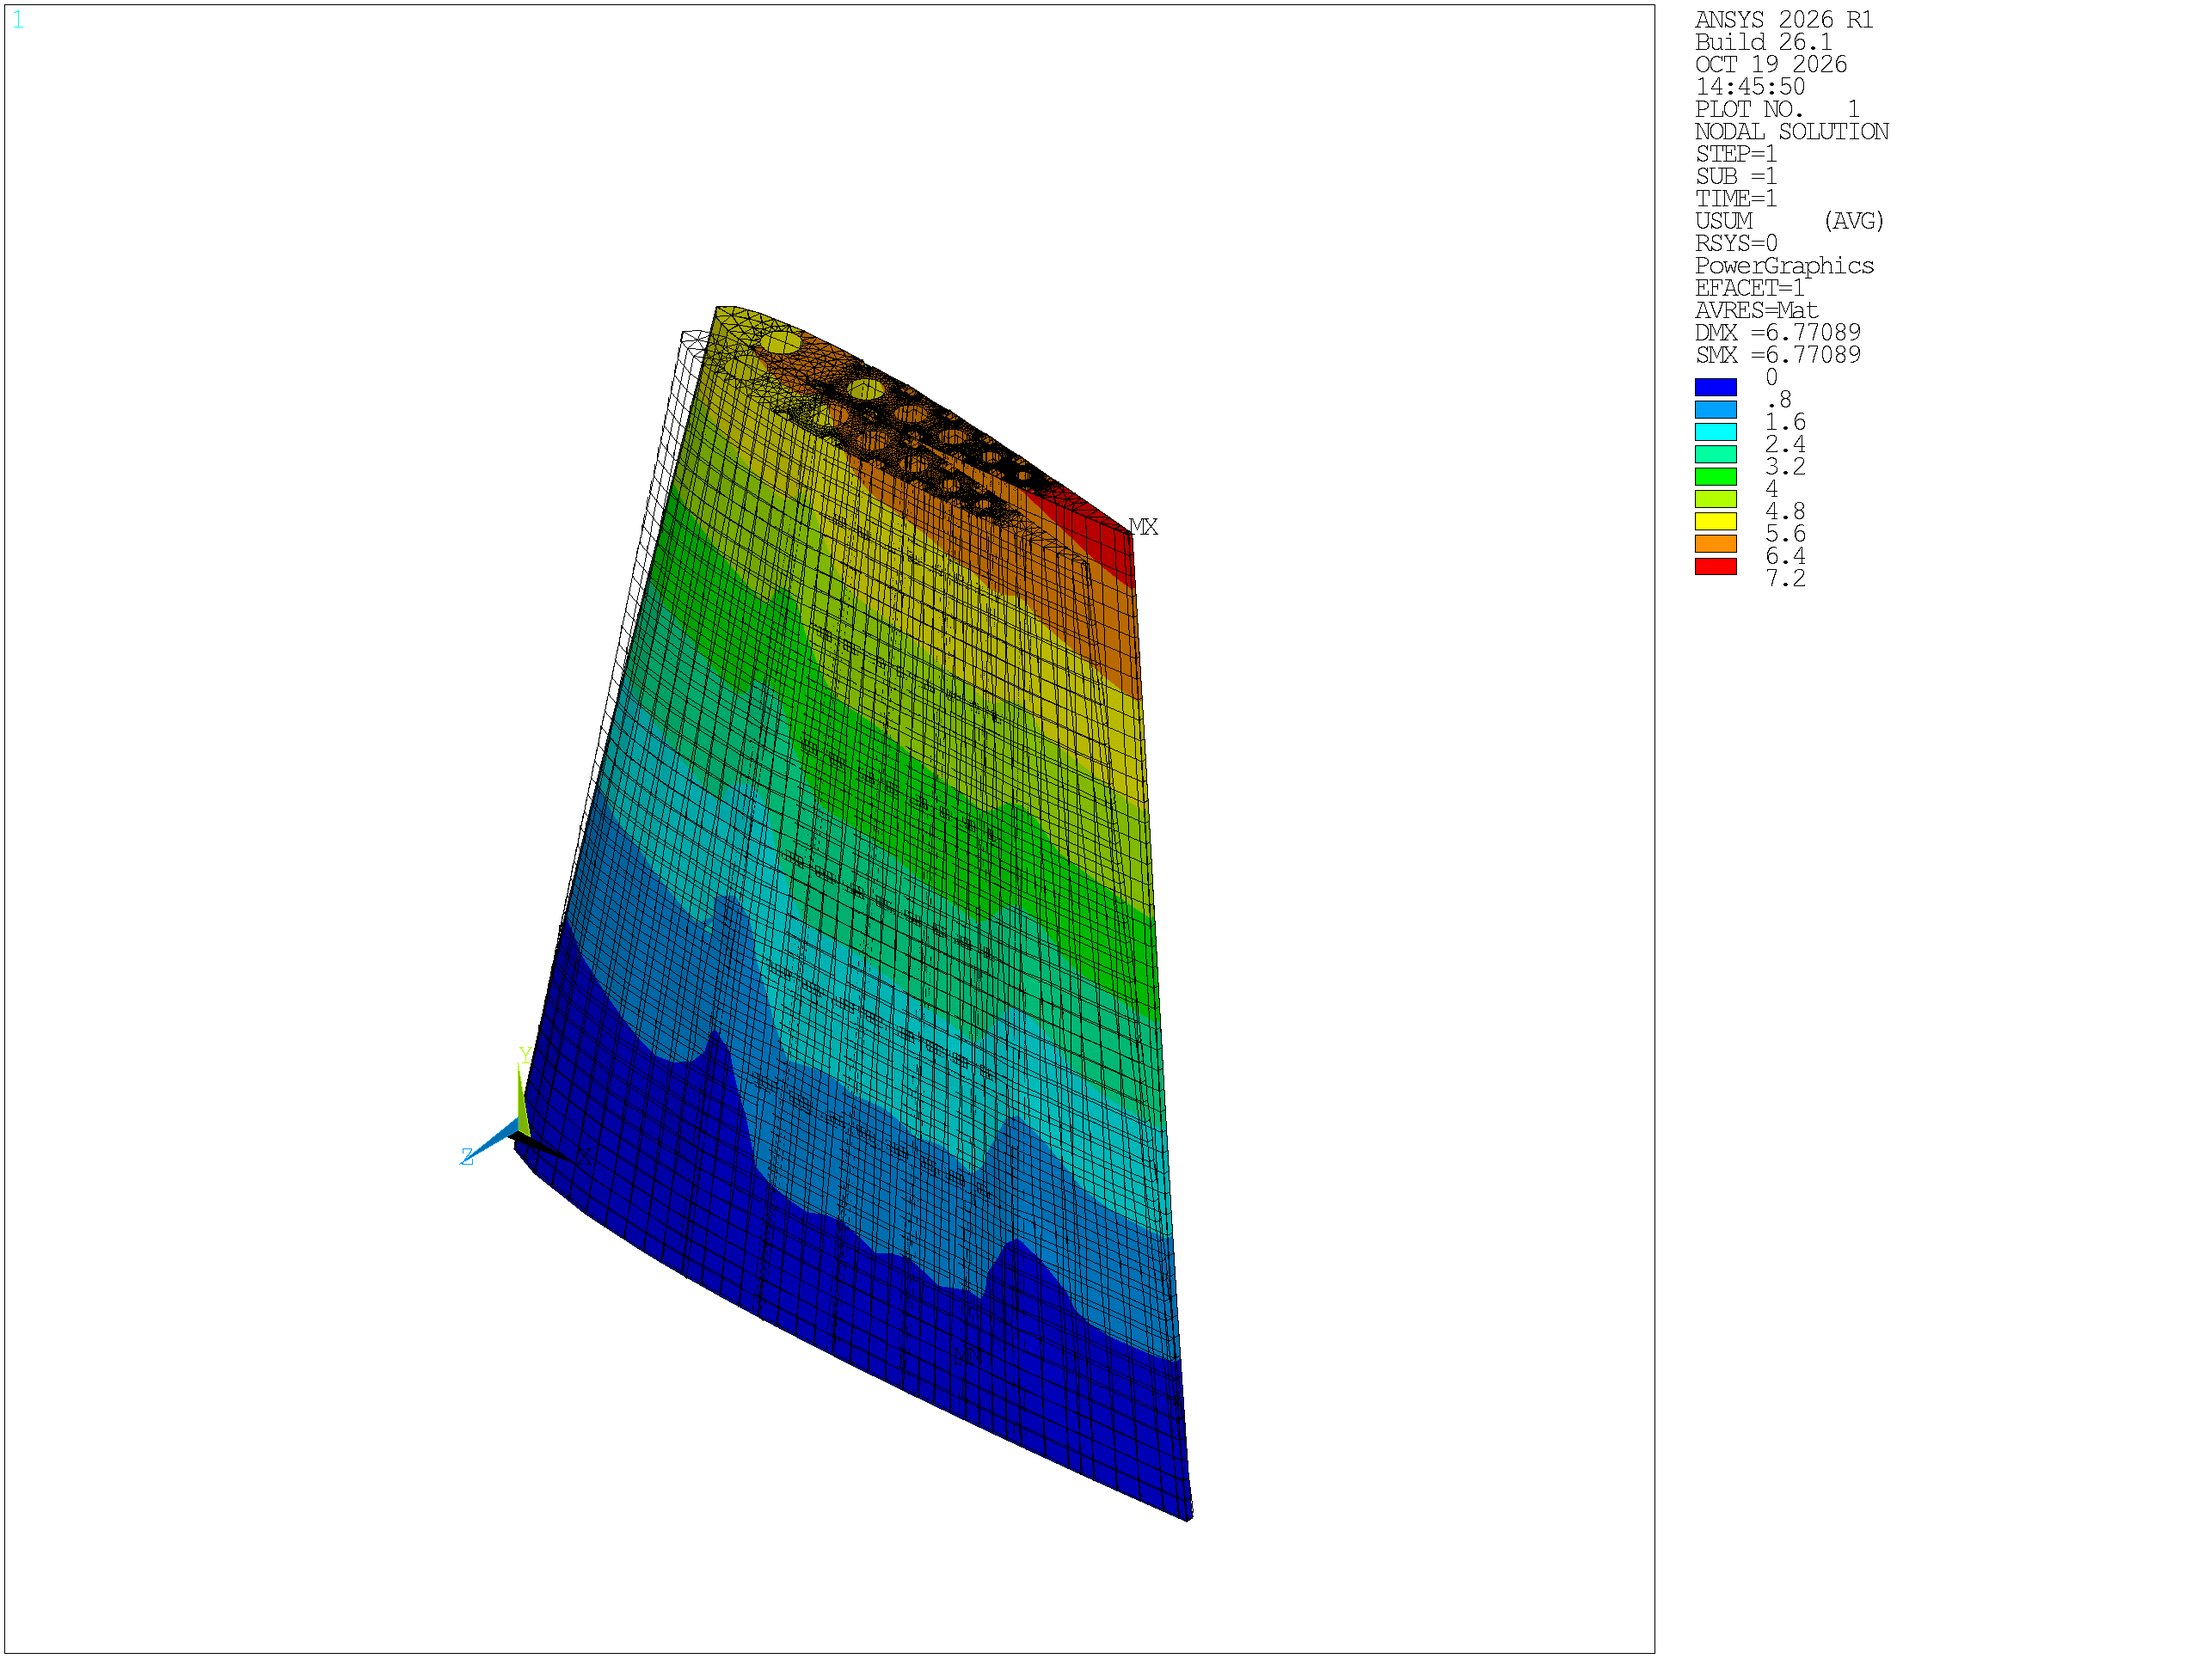
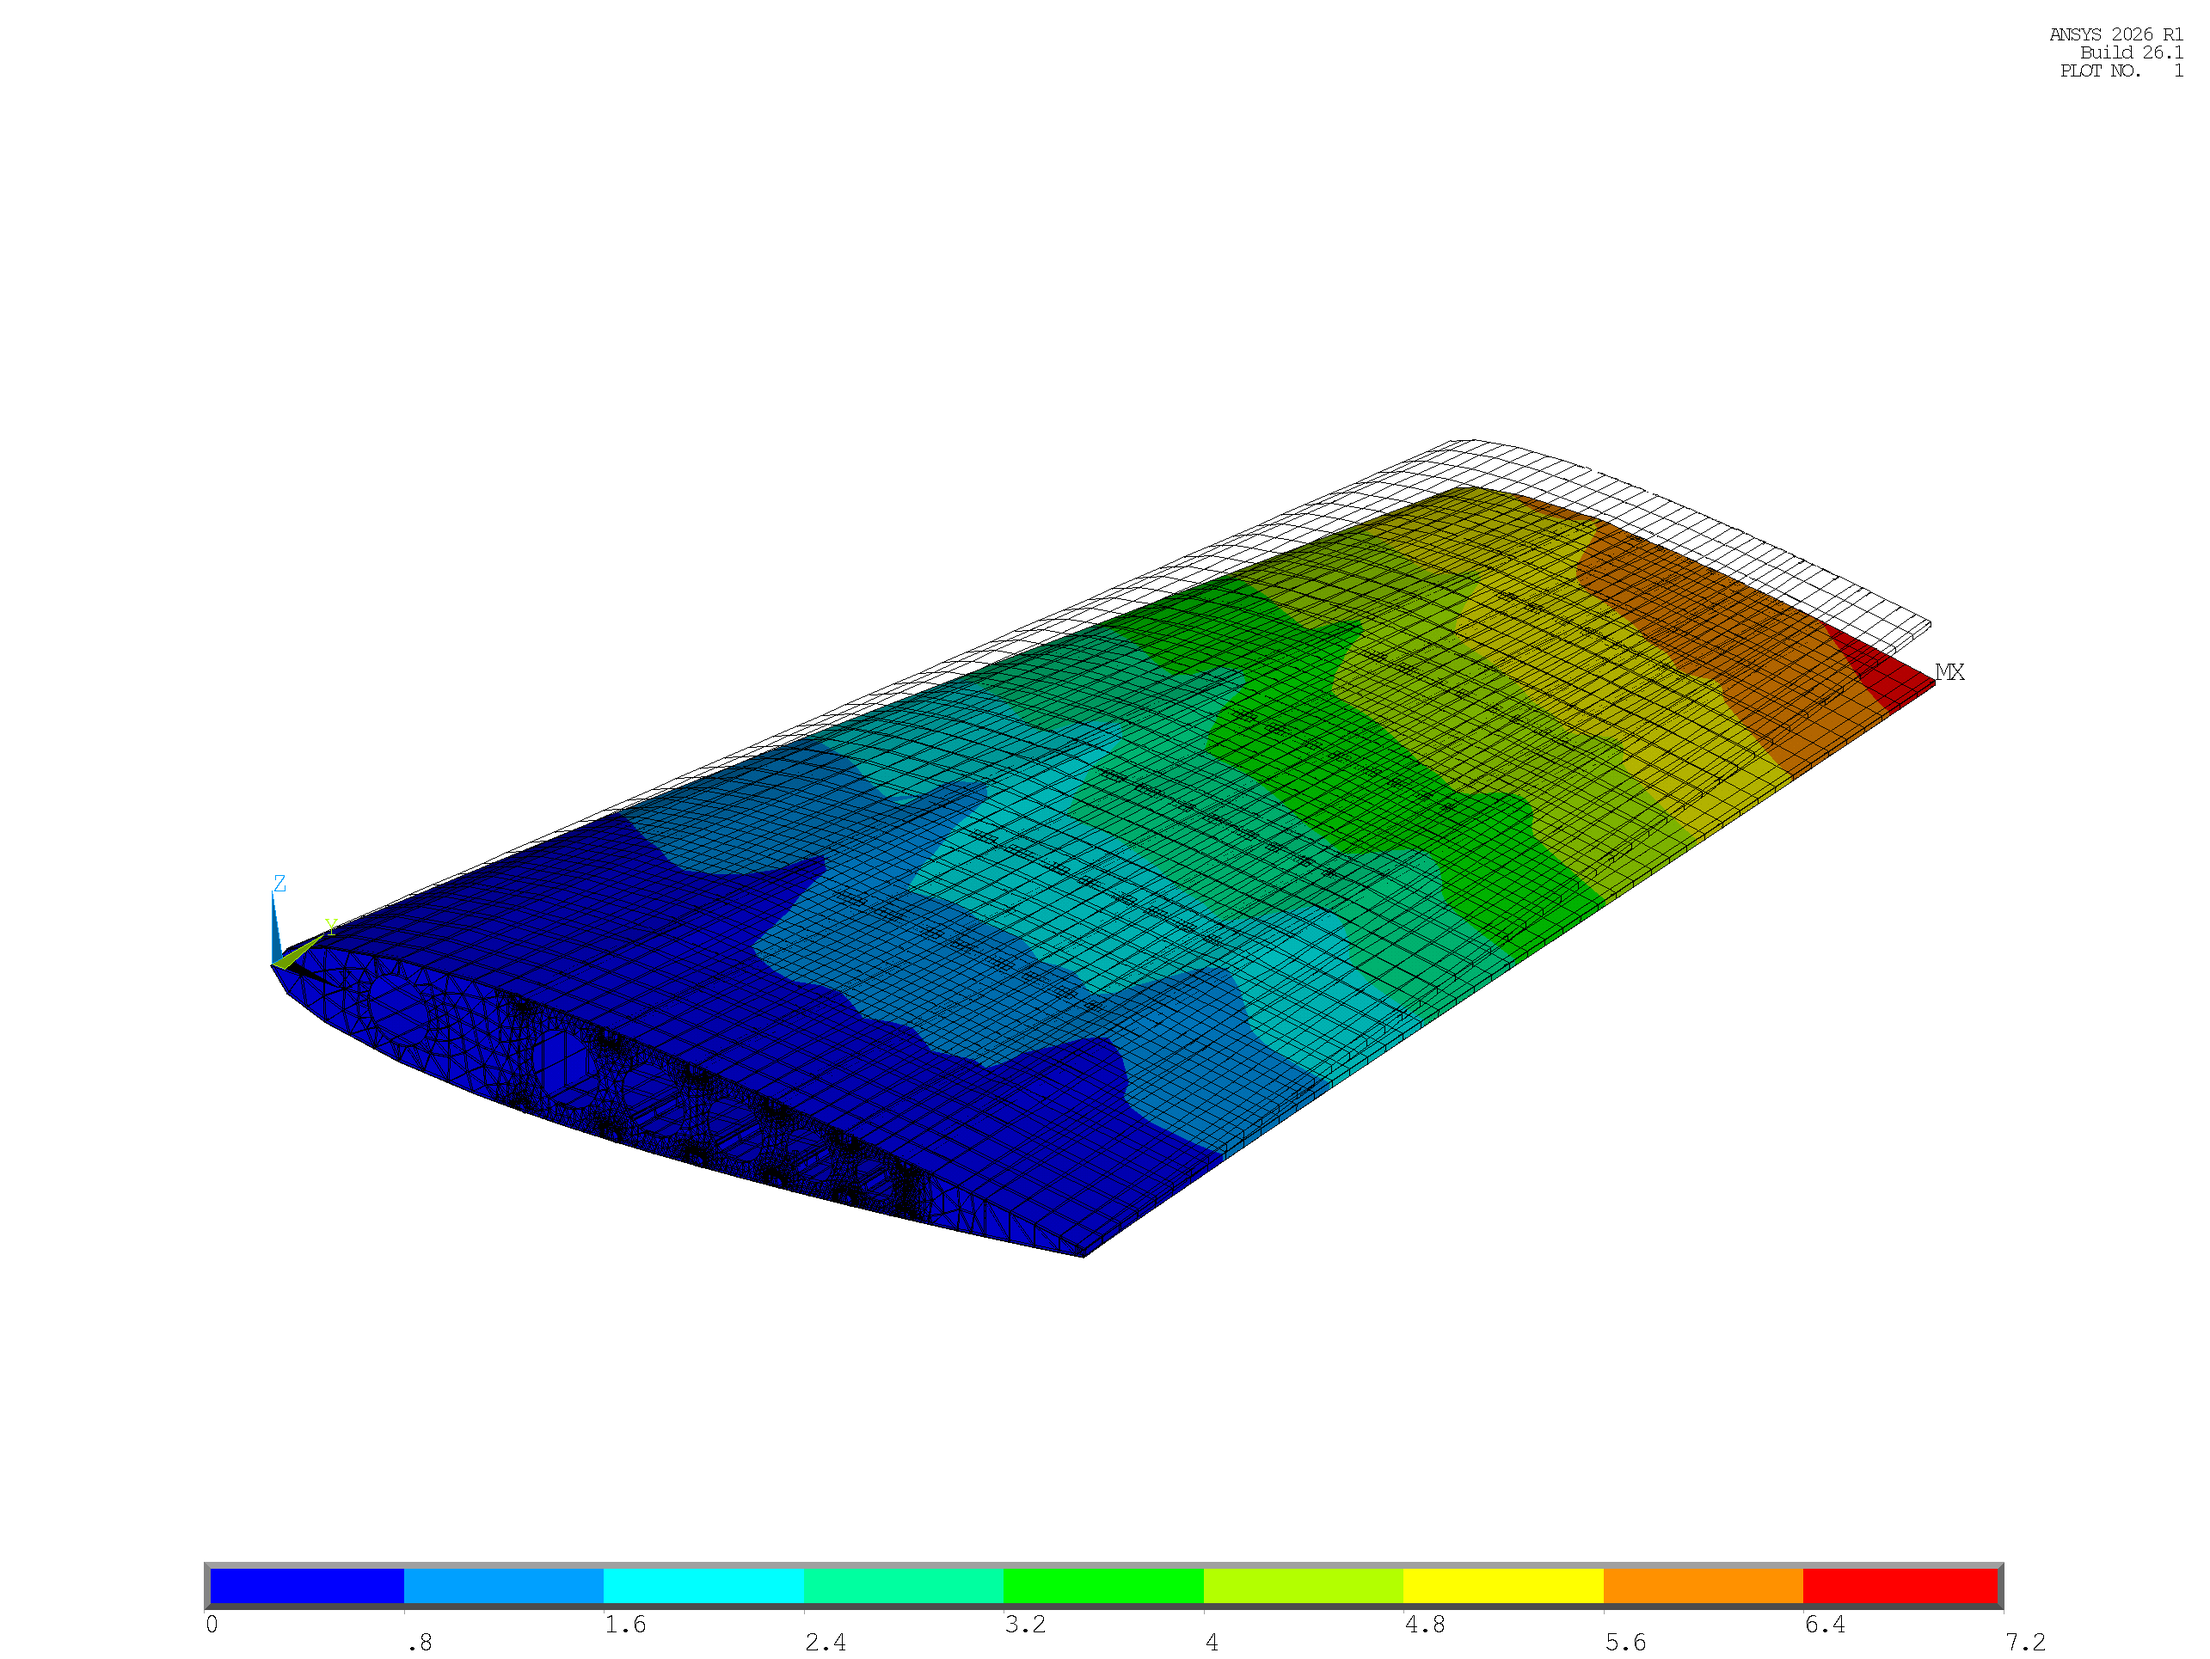
feat(m3): generate report-ready visuals with bottom horizontal contour bar and suppressed right legend

Changed region(s): [[0.0934, 0.1554, 0.9027, 0.9948], [0.7782, 0.0622, 0.8093, 0.0933]]

diff --git a/optimization/README.md b/optimization/README.md
@@ -175,58 +175,70 @@ Across all three optimized configurations:
 
 ---
 
-## 6. Publication Visual Gallery
+### 6. Publication Visual Gallery & Report-Ready Visuals
 
-All 10 target publication-quality images were rendered in ANSYS MAPDL Batch Mode using `/GRAPHICS, POWER`, `/ESHAPE, 1`, and unified contour ranges ($0 - 7.2\text{ mm}$ for DMX):
+All 10 target publication-quality images were rendered in ANSYS MAPDL Batch Mode using `/GRAPHICS, POWER`, `/ESHAPE, 1`, and unified contour ranges ($0 - 7.2\text{ mm}$ for DMX).
 
-### 6.1 Configuration 1 (14 Ribs, 3 Spars, 8 Stringers)
+### 6.1 Report-Ready Presentation Standards
+To match the clean presentation standard established in `modal_analysis/` and `load_sfbm/`, the visuals feature:
+- **Bottom Horizontal Contour Bar (`/UDOC, 1, CNTR, BOTTOM`):** Clean, centered horizontal color scale at the bottom of the image for optimal embedding in reports and presentation slides.
+- **Suppressed Right-Hand Legend Block (`/PLOPTS, LEG1, 0`, `LEG2, 0`, `INFO, 3`, `TITLE, 0`, `LOGO, 0`):** Removes the default ANSYS PowerGraphics banner, date, and sidebar text to maintain a modern, distraction-free visual presentation.
+- **Canonical Aerospace Perspective (`/VIEW, 1, 0.55, -0.70, 0.45` with `/VUP, 1, Z`):** Elevates the root carry-through box, stringer mouseholes, and compression upper skin into foreground perspective.
 
-````carousel
-![Config 1 Optimized Deflection](visual_opt/cfg1_opt_regime1a_dmx.png)
-<!-- slide -->
-![Config 1 Optimized Stress](visual_opt/cfg1_opt_regime1a_seqv.png)
-<!-- slide -->
-![Config 1 Buckling Mode 1](visual_opt/cfg1_buckle_mode1.png)
-````
-
-- [Config 1 Deflection (DMX, 0 to 7.2 mm)](visual_opt/cfg1_opt_regime1a_dmx.png): Shows smooth cantilever bending with maximum tip deflection of $6.77\text{ mm}$.
-- [Config 1 Stress (SEQV, 0 to 30 MPa)](visual_opt/cfg1_opt_regime1a_seqv.png): Stress concentration safely contained in root interior rib flanges ($\sigma_{\max} = 29.94\text{ MPa}$).
-- [Config 1 Linear Buckling Mode 1](visual_opt/cfg1_buckle_mode1.png): First buckling eigenvalue $|\lambda_1| = 2.4891$ ($MS = +0.66$).
+> **Directory Layout:**
+> - 📁 **Report-Ready Visuals (Bottom Bar, No Right Legend):** [`optimization/visual_opt/for_report/`](visual_opt/for_report/) and root [`optimization/visual_opt/`](visual_opt/)
+> - 📁 **Full PowerGraphics Legend Archive (With Sidebar):** [`optimization/visual_opt/with_powergraph/`](visual_opt/with_powergraph/)
 
 ---
 
-### 6.2 Configuration 2 (9 Ribs, 2 Spars, 8 Stringers)
+### 6.2 Configuration 1 (14 Ribs, 3 Spars, 8 Stringers)
 
 ````carousel
-![Config 2 Optimized Deflection](visual_opt/cfg2_opt_regime1a_dmx.png)
+![Config 1 Optimized Deflection (Report)](visual_opt/for_report/cfg1_opt_regime1a_dmx.png)
 <!-- slide -->
-![Config 2 Optimized Stress](visual_opt/cfg2_opt_regime1a_seqv.png)
+![Config 1 Optimized Stress (Report)](visual_opt/for_report/cfg1_opt_regime1a_seqv.png)
 <!-- slide -->
-![Config 2 Buckling Mode 1](visual_opt/cfg2_buckle_mode1.png)
+![Config 1 Buckling Mode 1 (Report)](visual_opt/for_report/cfg1_buckle_mode1.png)
 ````
 
-- [Config 2 Deflection (DMX, 0 to 7.2 mm)](visual_opt/cfg2_opt_regime1a_dmx.png): Controlled tip deflection of $6.77\text{ mm}$ matching Config 1.
-- [Config 2 Stress (SEQV, 0 to 45 MPa)](visual_opt/cfg2_opt_regime1a_seqv.png): Peak stress of $44.64\text{ MPa}$ at root interior rib flange.
-- [Config 2 Linear Buckling Mode 1](visual_opt/cfg2_buckle_mode1.png): First buckling eigenvalue $|\lambda_1| = 2.2074$ ($MS = +0.47$).
+- [Config 1 Deflection (Report, DMX 0 to 7.2 mm)](visual_opt/for_report/cfg1_opt_regime1a_dmx.png) | [With PowerGraphics](visual_opt/with_powergraph/cfg1_opt_regime1a_dmx.png): Cantilever bending with maximum tip deflection of $6.77\text{ mm}$.
+- [Config 1 Stress (Report, SEQV 0 to 30 MPa)](visual_opt/for_report/cfg1_opt_regime1a_seqv.png) | [With PowerGraphics](visual_opt/with_powergraph/cfg1_opt_regime1a_seqv.png): Peak stress contained in root interior rib flanges ($\sigma_{\max} = 29.94\text{ MPa}$).
+- [Config 1 Linear Buckling Mode 1 (Report)](visual_opt/for_report/cfg1_buckle_mode1.png) | [With PowerGraphics](visual_opt/with_powergraph/cfg1_buckle_mode1.png): First buckling eigenvalue $|\lambda_1| = 2.4891$ ($MS = +0.66$).
 
 ---
 
-### 6.3 Configuration 3 (7 Ribs, 2 Spars, 6 Stringers) — Global Optimum
+### 6.3 Configuration 2 (9 Ribs, 2 Spars, 8 Stringers)
 
 ````carousel
-![Config 3 Baseline Buckling Deficiency](visual_opt/cfg3_baseline_buckle_mode1.png)
+![Config 2 Optimized Deflection (Report)](visual_opt/for_report/cfg2_opt_regime1a_dmx.png)
 <!-- slide -->
-![Config 3 Optimized Deflection](visual_opt/cfg3_opt_regime1a_dmx.png)
+![Config 2 Optimized Stress (Report)](visual_opt/for_report/cfg2_opt_regime1a_seqv.png)
 <!-- slide -->
-![Config 3 Optimized Stress](visual_opt/cfg3_opt_regime1a_seqv.png)
-<!-- slide -->
-![Config 3 Optimized Buckling Mode 1](visual_opt/cfg3_opt_regime1a_buckle_mode1.png)
+![Config 2 Buckling Mode 1 (Report)](visual_opt/for_report/cfg2_buckle_mode1.png)
 ````
 
-- [Config 3 Baseline Buckling Mode 1](visual_opt/cfg3_baseline_buckle_mode1.png): **Baseline Deficit:** $|\lambda_1| = 1.3257 < 1.50$ ($MS = -0.12$), showing localized compressive skin bay buckling.
-- [Config 3 Optimized Deflection (DMX, 0 to 7.2 mm)](visual_opt/cfg3_opt_regime1a_dmx.png): Optimized tip deflection of $6.74\text{ mm}$ ($U_Z = -6.69\text{ mm}$).
-- [Config 3 Optimized Stress (SEQV, 0 to 55 MPa)](visual_opt/cfg3_opt_regime1a_seqv.png): Peak stress of $51.13\text{ MPa}$ at root interior rib flange ($\text{FS} = 9.39$).
-- [Config 3 Optimized Buckling Mode 1](visual_opt/cfg3_opt_regime1a_buckle_mode1.png): **Certified Pass:** $|\lambda_1| = 1.6012 \ge 1.50$ ($MS = +0.07$), buckling resistance restored by skin reinforcement.
+- [Config 2 Deflection (Report, DMX 0 to 7.2 mm)](visual_opt/for_report/cfg2_opt_regime1a_dmx.png) | [With PowerGraphics](visual_opt/with_powergraph/cfg2_opt_regime1a_dmx.png): Controlled tip deflection of $6.77\text{ mm}$ matching Config 1.
+- [Config 2 Stress (Report, SEQV 0 to 45 MPa)](visual_opt/for_report/cfg2_opt_regime1a_seqv.png) | [With PowerGraphics](visual_opt/with_powergraph/cfg2_opt_regime1a_seqv.png): Peak stress of $44.64\text{ MPa}$ at root interior rib flange.
+- [Config 2 Linear Buckling Mode 1 (Report)](visual_opt/for_report/cfg2_buckle_mode1.png) | [With PowerGraphics](visual_opt/with_powergraph/cfg2_buckle_mode1.png): First buckling eigenvalue $|\lambda_1| = 2.2074$ ($MS = +0.47$).
+
+---
+
+### 6.4 Configuration 3 (7 Ribs, 2 Spars, 6 Stringers) — Global Optimum
+
+````carousel
+![Config 3 Baseline Buckling Deficiency (Report)](visual_opt/for_report/cfg3_baseline_buckle_mode1.png)
+<!-- slide -->
+![Config 3 Optimized Deflection (Report)](visual_opt/for_report/cfg3_opt_regime1a_dmx.png)
+<!-- slide -->
+![Config 3 Optimized Stress (Report)](visual_opt/for_report/cfg3_opt_regime1a_seqv.png)
+<!-- slide -->
+![Config 3 Optimized Buckling Mode 1 (Report)](visual_opt/for_report/cfg3_opt_regime1a_buckle_mode1.png)
+````
+
+- [Config 3 Baseline Buckling Mode 1 (Report)](visual_opt/for_report/cfg3_baseline_buckle_mode1.png) | [With PowerGraphics](visual_opt/with_powergraph/cfg3_baseline_buckle_mode1.png): **Baseline Deficit:** $|\lambda_1| = 1.3257 < 1.50$ ($MS = -0.12$), showing localized compressive skin bay buckling.
+- [Config 3 Optimized Deflection (Report, DMX 0 to 7.2 mm)](visual_opt/for_report/cfg3_opt_regime1a_dmx.png) | [With PowerGraphics](visual_opt/with_powergraph/cfg3_opt_regime1a_dmx.png): Optimized tip deflection of $6.74\text{ mm}$ ($U_Z = -6.69\text{ mm}$).
+- [Config 3 Optimized Stress (Report, SEQV 0 to 55 MPa)](visual_opt/for_report/cfg3_opt_regime1a_seqv.png) | [With PowerGraphics](visual_opt/with_powergraph/cfg3_opt_regime1a_seqv.png): Peak stress of $51.13\text{ MPa}$ at root interior rib flange ($\text{FS} = 9.39$).
+- [Config 3 Optimized Buckling Mode 1 (Report)](visual_opt/for_report/cfg3_opt_regime1a_buckle_mode1.png) | [With PowerGraphics](visual_opt/with_powergraph/cfg3_opt_regime1a_buckle_mode1.png): **Certified Pass:** $|\lambda_1| = 1.6012 \ge 1.50$ ($MS = +0.07$), buckling resistance restored by skin reinforcement.
 
 ---
 

diff --git a/README.md b/README.md
@@ -123,7 +123,7 @@ Building upon the certified baseline, Stage 3d implements an ultra-fast structur
 - **Structural Regime Nature:** Von Mises stress margins remain large across all topologies ($\text{FS}_{\min} = 9.39 \gg 1.50$), proving that the transport tailplane is governed by **stiffness and stability constraints**, not static strength yield.
 - **Visual & Tabular Artifacts:**
   - Machine-Readable Tables: [`optimization/result/STAGE3D_FINAL_COMPARISON_TABLE.csv`](optimization/result/STAGE3D_FINAL_COMPARISON_TABLE.csv) and [`optimization/result/STAGE3D_SENSITIVITY_MATRIX.csv`](optimization/result/STAGE3D_SENSITIVITY_MATRIX.csv).
-  - Publication Visuals ($0\text{–}7.2\text{ mm}$ DMX, $0\text{–}55\text{ MPa}$ SEQV, Buckling Modes): [`optimization/visual_opt/`](optimization/visual_opt/).
+  - Publication Visuals: Report-Ready Bottom Bar [`optimization/visual_opt/for_report/`](optimization/visual_opt/for_report/) & Root [`optimization/visual_opt/`](optimization/visual_opt/) | Sidebar Legend Archive [`optimization/visual_opt/with_powergraph/`](optimization/visual_opt/with_powergraph/).
 
 ---
 
